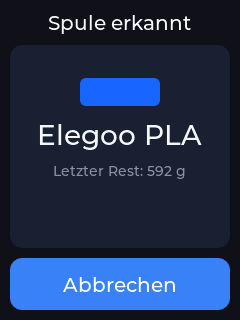
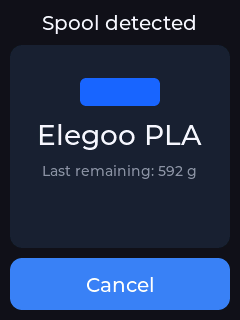
Englische Screens und neue Blender-Renders mit englischem Display

diff --git a/docs/index.html b/docs/index.html
@@ -177,7 +177,7 @@
 <!-- RENDERS -->
 <section>
   <div class="two">
-    <img src="img/render-front.jpg" alt="Scale, front view" loading="lazy">
+    <img src="img/render-front.jpg" alt="Scale next to a storage box" loading="lazy">
     <img src="img/render-menu.jpg" alt="Scale showing the menu" loading="lazy">
   </div>
 </section>

diff --git a/firmware/tools/screenshots/main.cpp b/firmware/tools/screenshots/main.cpp
@@ -104,6 +104,8 @@ static void setSpoolTag() {
   mock.lookup.spool.remaining = 732;
 }
 
+static Lang baseLang = Lang::DE;
+
 int main(int argc, char **argv) {
   if (argc > 1) outDir = argv[1];
 
@@ -121,6 +123,9 @@ int main(int argc, char **argv) {
   setWeight(0);
 
   i18nBegin();
+  const char *lg = getenv("SHOT_LANG");
+  baseLang = (lg && !strcmp(lg, "en")) ? Lang::EN : Lang::DE;
+  i18nSet(baseLang);
   themeLoad();
   buildHome();
   lv_timer_create(refreshTimerCb, 200, nullptr);
@@ -251,7 +256,7 @@ int main(int argc, char **argv) {
   shot("en_menu");
 
   // --- Werbeclip (deutsch): Tara mit 3 g Drift, Box, Spule "Blaues PLA" ---
-  i18nSet(Lang::DE);
+  i18nSet(baseLang);
   uiRetranslateHome();
   uiShowHome();
   mock.adminLoggedIn = false;

diff --git a/firmware/tools/screenshots/stubs.cpp b/firmware/tools/screenshots/stubs.cpp
@@ -95,7 +95,11 @@ void catalogGet(Catalog &out) {
   out.makerCount = 2;
   strlcpy(out.makers[0], "Elegoo", 32);
   strlcpy(out.makers[1], "Generic", 32);
-  const char *cn[] = {"Weiß", "Schwarz", "Rot", "Blau", "Grün", "Gelb"};
+  const char *lg = getenv("SHOT_LANG");
+  const bool en = lg && !strcmp(lg, "en");
+  const char *cn_de[] = {"Weiß", "Schwarz", "Rot", "Blau", "Grün", "Gelb"};
+  const char *cn_en[] = {"White", "Black", "Red", "Blue", "Green", "Yellow"};
+  const char **cn = en ? cn_en : cn_de;
   const char *ch[] = {"FFFFFF", "000000", "E11D2A", "2563EB", "16A34A", "FACC15"};
   out.colorCount = 6;
   for (int i = 0; i < 6; i++) {
